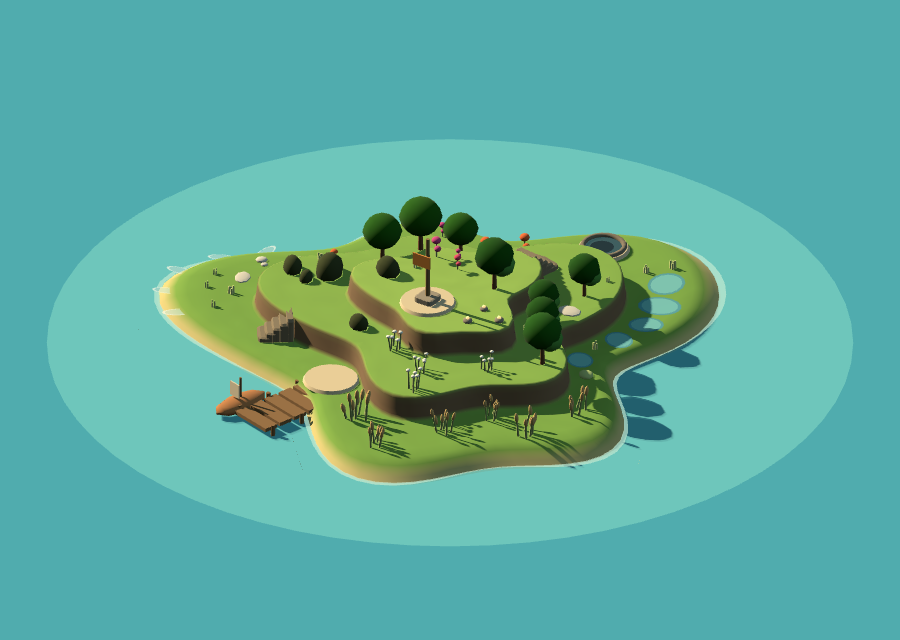
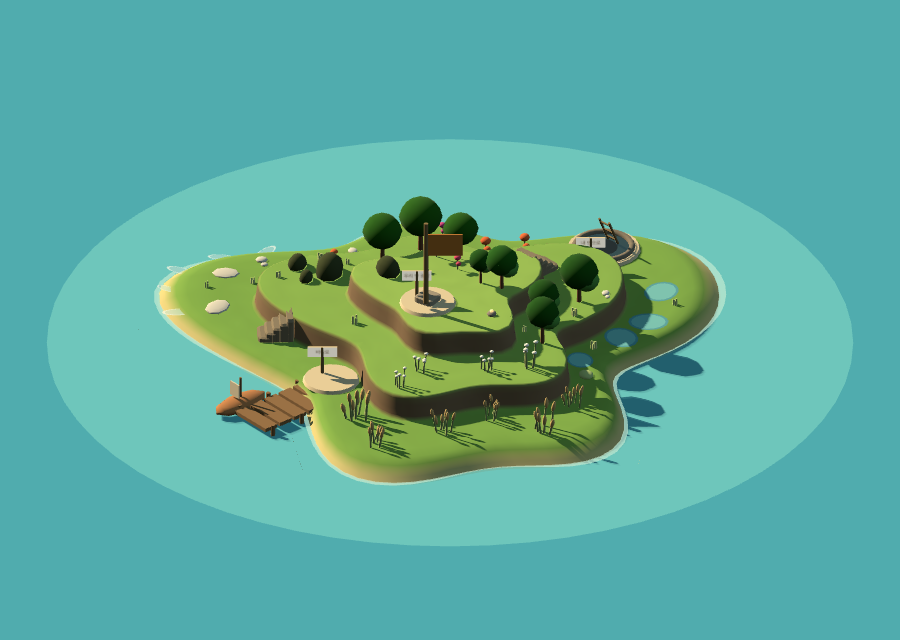
③-8 손보기: 이름 팻말, 잠수 사다리, 깃대 높이
렌더 보고 세 가지.

이름 팻말을 셋 다 같은 형태로 세웠다

"팻말이 있는 곳 = 갈 수 있는 곳"이 공통 규칙이 된다. 문구는 이름이 아니라
어디로 가는지다 — "바다로" / "내 안으로" / "우리 반 광장".
글자는 작은 캔버스 텍스처 세 장이고 문구가 세 가지라 모듈 수준에 캐시한다.
§4의 "텍스처를 쓰지 않는다"는 표면 질감 이야기이고 이름은 읽혀야 한다.

판은 아이소메트릭이 고정이라 항상 카메라 쪽을 보게 세운다. 그러면 빛을
등져 판이 어두워지고 글자가 안 읽힌다. 약한 자체 발광을 줘 해결했다.
문구가 길면 글자 크기를 줄여 판 안에 담는다. 판을 늘리면 팻말끼리
크기가 달라진다.

잠수 지점이 평온 영역 물웅덩이와 구분되지 않았다

둘 다 둥근 물이라 위에서 보면 같았다. 사다리를 세워 세로 요소를 주고
(물 안에 발을 담근다), 웅덩이를 0.47 → 0.64로 키우고 물을 더 짙게 했다.

광장 표지가 나무들 사이에 파묻혔다

깃대를 1.45 → 2.05로 올리고 깃발을 0.46×0.30 → 0.82×0.54로 키웠다.
팻말과 깃대는 별개다 — 팻말은 가까이서 읽고 깃발은 멀리서 보라고 있다.
섬 실루엣은 깨지 않는다.

버그 하나

랜드마크 빌더 콜백 안에서 th가 buildIsland의 var th(메시 루프 변수)를
집고 있었다. 그래서 깃발이 옆면만 보였다. 각도를 인자로 넘긴다.
팻말은 addLandmark 안에서 세워 이 문제가 없었다.

시드 6개 자동 검사 전부 통과.

Claude-Session: https://claude.ai/code/session_01SZRMdQ646wNhwreMZVVGCv

diff --git a/index.html b/index.html
@@ -5329,8 +5329,8 @@ function buildIsland(seedStr, opts) {
   // 그 층 식생이 통째로 사라진다.
   // 디딤판 반경이 0.64이므로 1.2면 판 둘레가 확실히 비고, 그 이상은
   // 식생이 놓일 자리만 잡아먹는다.
-  var LM_CLEAR = { dock: 1.2, dive: 1.2, plaza: 1.05 };
-  function addLandmark(id, name, hint, th, r, build) {
+  var LM_CLEAR = { dock: 1.3, dive: 1.5, plaza: 1.2 };
+  function addLandmark(id, name, sign, hint, th, r, build) {
     var x = Math.cos(th) * r, z = Math.sin(th) * r, y = profileAt(r, th).y;
     var lg = new THREE.Group();
     lg.position.set(x, y, z);
@@ -5342,12 +5342,17 @@ function buildIsland(seedStr, opts) {
       color: 0xd8c6a2, roughness: 1, metalness: 0,
       emissive: new THREE.Color(0xffd9a0), emissiveIntensity: 0
     });
-    var pr = id === "dive" ? 0.56 : 0.60;
+    var pr = id === "dive" ? 0.80 : 0.60;
     var plinth = new THREE.Mesh(new THREE.CylinderGeometry(pr, pr + 0.04, 0.07, 20), pmat);
     plinth.position.y = 0.035;
     plinth.castShadow = true; plinth.receiveShadow = true;
     lg.add(plinth);
-    build(lg);
+    build(lg, th);   // 각도를 넘긴다. 안 넘기면 buildIsland의 var th를 집는다
+    // 이름 팻말은 셋 다 같은 형태다. 잠수 지점은 웅덩이가 커서 판 밖에 세운다.
+    var sg = new THREE.Group();
+    sg.position.set(id === "dive" ? -0.72 : 0, 0, id === "dive" ? 0.30 : 0.30);
+    lg.add(sg);
+    addNameSign(sg, sign, th, 1);
     grp.add(lg);
     landmarks.push({ id: id, name: name, hint: hint, x: x, y: y, z: z, th: th, near: 1.3, mat: pmat });
     keepOuts.push({ x: x, z: z, r: LM_CLEAR[id] || 1.3, why: name });
@@ -5355,16 +5360,16 @@ function buildIsland(seedStr, opts) {
 
   // 부두 — 진입부에 디딤판만 놓는다. 부두 자체는 ③-1 그대로다.
   var dockIn = rC - 0.9 * ISLE_K;
-  addLandmark("dock", "부두", "바다로 나가요", dockTh, dockIn, function () {});
+  addLandmark("dock", "부두", "바다로", "바다로 나가요", dockTh, dockIn, function () {});
 
   // 잠수 지점 — "내려가는 물"로 읽혀야 한다. 우물이 아니다.
   // 돌로 두른 웅덩이 + 물에 잠긴 계단 두 단.
   var diveBand = bandAt(diveTh, 0);
   var diveR = diveBand ? Math.max(diveBand.lo + 0.7, diveBand.hi - 0.75) : coast(diveTh) * 0.72;
-  addLandmark("dive", "잠수 지점", "내 안으로 내려가요", diveTh, diveR, function (lg) {
+  addLandmark("dive", "잠수 지점", "내 안으로", "내 안으로 내려가요", diveTh, diveR, function (lg, lth) {
     // 테두리 돌은 디딤판보다 어둡게. 같은 톤이면 물이 안 보인다.
     var stoneM = new THREE.MeshStandardMaterial({ color: 0x7d7364, roughness: 1, metalness: 0 });
-    var rim = new THREE.Mesh(new THREE.TorusGeometry(0.47, 0.065, 6, 22), stoneM);
+    var rim = new THREE.Mesh(new THREE.TorusGeometry(0.64, 0.075, 6, 24), stoneM);
     rim.rotation.x = -Math.PI / 2; rim.position.y = 0.09;
     rim.castShadow = true; rim.receiveShadow = true;
     lg.add(rim);
@@ -5373,40 +5378,63 @@ function buildIsland(seedStr, opts) {
       var sl = new THREE.Mesh(roundedSlab(), new THREE.MeshStandardMaterial({
         color: d === 0 ? 0x7f7768 : 0x5d5850, roughness: 1, metalness: 0
       }));
-      sl.scale.set(0.34, 0.07, 0.46);
-      sl.position.set(0.10 + d * 0.13, 0.02 - d * 0.07, 0);
+      sl.scale.set(0.34, 0.07, 0.50);
+      sl.position.set(0.16 + d * 0.15, 0.02 - d * 0.07, 0);
       lg.add(sl);
     }
     // 물. 섬 둘레 바다보다 짙게 — 여기는 깊다.
-    // 물은 섬 둘레 바다보다 훨씬 짙다. 여기는 깊다는 뜻이다.
-    var wat = new THREE.Mesh(new THREE.CircleGeometry(0.47, 22).rotateX(-Math.PI / 2),
-      new THREE.MeshStandardMaterial({ color: 0x14495c, roughness: 0.55, metalness: 0,
-        transparent: true, opacity: 0.9 }));
+    // 물은 섬 둘레 바다보다 훨씬 짙고, 평온 영역 물웅덩이보다 확실히 크다.
+    // 위에서 봤을 때 둘이 같은 둥근 물로 보이면 안 된다.
+    var wat = new THREE.Mesh(new THREE.CircleGeometry(0.64, 24).rotateX(-Math.PI / 2),
+      new THREE.MeshStandardMaterial({ color: 0x0f3a4c, roughness: 0.55, metalness: 0,
+        transparent: true, opacity: 0.93 }));
     wat.position.y = 0.086;
     lg.add(wat);
-    var deep = new THREE.Mesh(new THREE.CircleGeometry(0.27, 18).rotateX(-Math.PI / 2),
-      new THREE.MeshStandardMaterial({ color: 0x092b3a, roughness: 0.55, metalness: 0 }));
-    deep.position.set(-0.05, 0.090, 0);
+    var deep = new THREE.Mesh(new THREE.CircleGeometry(0.36, 20).rotateX(-Math.PI / 2),
+      new THREE.MeshStandardMaterial({ color: 0x061f2c, roughness: 0.55, metalness: 0 }));
+    deep.position.set(-0.06, 0.090, 0);
     lg.add(deep);
+    // 사다리 — 위에서 봐도 원판이 아니고, "내려간다"를 형태가 말한다.
+    var ladM = new THREE.MeshStandardMaterial({ color: 0x8a7048, roughness: 1, metalness: 0 });
+    var lad = new THREE.Group();
+    lad.position.set(0.34, 0.02, 0);           // 물 안에 발을 담근다
+    lad.rotation.z = 0.42;                     // 웅덩이 쪽으로 눕는다
+    for (var sd = -1; sd <= 1; sd += 2) {
+      var rail = new THREE.Mesh(new THREE.CylinderGeometry(0.028, 0.028, 0.78, 6), ladM);
+      rail.position.set(0, 0.39, sd * 0.15);
+      rail.castShadow = true;
+      lad.add(rail);
+    }
+    for (var rg = 0; rg < 3; rg++) {
+      var rung = new THREE.Mesh(new THREE.CylinderGeometry(0.022, 0.022, 0.30, 5), ladM);
+      rung.rotation.x = Math.PI / 2;
+      rung.position.set(0, 0.20 + rg * 0.24, 0);
+      rung.castShadow = true;
+      lad.add(rung);
+    }
+    lg.add(lad);
   });
 
   // 광장 표지 — 3층. 섬에서 가장 높다. 계단을 올라올 이유가 된다.
   var plazaBand = bandAt(plazaTh, 2);
   var plazaR = plazaBand ? (plazaBand.lo + plazaBand.hi) * 0.5 : 0.5;
-  addLandmark("plaza", "광장 표지", "우리 반 광장으로 가요", plazaTh, plazaR, function (lg) {
+  addLandmark("plaza", "광장 표지", "우리 반 광장", "우리 반 광장으로 가요", plazaTh, plazaR, function (lg, lth) {
     var stoneM2 = new THREE.MeshStandardMaterial({ color: 0x9a8f7d, roughness: 1, metalness: 0 });
     var base = new THREE.Mesh(roundedSlab(), stoneM2);
     base.scale.set(0.46, 0.16, 0.46); base.position.y = 0.12;
     base.castShadow = true; base.receiveShadow = true;
     lg.add(base);
-    // 기둥 높이 1.45. 나무 꼭대기(3층에서 약 1.3)보다 깃발이 살짝 위에 온다.
-    var pole = new THREE.Mesh(new THREE.CylinderGeometry(0.045, 0.055, 1.45, 8),
+    // 깃대는 팻말과 별개다. 팻말은 가까이서 읽고, 깃발은 멀리서 보라고 있다.
+    // 1.45로는 나무들 사이에 파묻혔다. 2.05로 올려 나무 꼭대기 위로 확실히 뺀다.
+    var pole = new THREE.Mesh(new THREE.CylinderGeometry(0.05, 0.062, 2.05, 8),
       new THREE.MeshStandardMaterial({ color: 0x8a7048, roughness: 1, metalness: 0 }));
-    pole.position.y = 0.20 + 1.45 / 2; pole.castShadow = true;
+    pole.position.set(0.30, 0.20 + 2.05 / 2, -0.16); pole.castShadow = true;
     lg.add(pole);
-    var flag = new THREE.Mesh(new THREE.BoxGeometry(0.46, 0.30, 0.035),
+    var flag = new THREE.Mesh(new THREE.BoxGeometry(0.82, 0.54, 0.04),
       new THREE.MeshStandardMaterial({ color: 0xd6883c, roughness: 1, metalness: 0 }));
-    flag.position.set(0.24, 1.20, 0); flag.rotation.y = Math.PI / 2;
+    flag.rotation.y = Math.PI / 4 + lth;    // 팻말과 같은 방향. 화면을 본다
+    flag.position.set(0.30, 1.70, -0.16);
+    flag.translateX(0.41);                  // 기둥에 붙여 편다
     flag.castShadow = true;
     lg.add(flag);
   });
@@ -5839,6 +5867,65 @@ function buildVegMeshes(items) {
     grp.add(im);
   });
   return grp;
+}
+// 팻말 글자. 텍스처를 거의 안 쓰는 프로젝트지만(DESIGN.md §4) 이름은 읽혀야 한다.
+// 256×64 세 장뿐이고 문구가 세 가지라 모듈 수준에 캐시해 섬마다 다시 만들지 않는다.
+// IslandView의 정리는 재질만 dispose하고 텍스처는 건드리지 않으므로 안전하다.
+var LABEL_TEX = {};
+function labelTexture(text) {
+  if (LABEL_TEX[text]) return LABEL_TEX[text];
+  // 자동 검사는 브라우저 없이 돌아간다. 캔버스가 없으면 글자 없는 판으로 둔다.
+  if (typeof document === "undefined") return null;
+  var c = document.createElement("canvas");
+  c.width = 256; c.height = 96;
+  var g = c.getContext("2d");
+  g.fillStyle = "#f2e3c2"; g.fillRect(0, 0, 256, 96);
+  g.fillStyle = "#4a3a24";
+  g.textAlign = "center"; g.textBaseline = "middle";
+  // 문구가 길면 글자를 줄여 판 안에 담는다. 판을 늘리면 팻말끼리 크기가 달라진다.
+  var px = 46;
+  do {
+    g.font = "bold " + px + "px 'Jua', 'Apple SD Gothic Neo', sans-serif";
+    if (g.measureText(text).width <= 226) break;
+    px -= 2;
+  } while (px > 22);
+  g.fillText(text, 128, 52);
+  var t = new THREE.Texture(c);
+  t.needsUpdate = true;
+  if (THREE.SRGBColorSpace) t.colorSpace = THREE.SRGBColorSpace; else t.encoding = THREE.sRGBEncoding;
+  LABEL_TEX[text] = t;
+  return t;
+}
+// 이름 팻말. 셋 다 같은 형태다 — 팻말이 있는 곳이 갈 수 있는 곳이라는
+// 규칙 하나로 아이가 셋을 다 알아본다. 다가가지 않아도 멀리서 보인다.
+// 판은 항상 카메라 쪽을 본다. 아이소메트릭이 고정이라 각도가 상수다.
+function addNameSign(lg, text, th, scale) {
+  var k = scale || 1;
+  var post = new THREE.Mesh(new THREE.CylinderGeometry(0.035 * k, 0.042 * k, 0.66 * k, 7),
+    new THREE.MeshStandardMaterial({ color: 0x8a7048, roughness: 1, metalness: 0 }));
+  post.position.y = 0.07 + 0.66 * k / 2;
+  post.castShadow = true;
+  lg.add(post);
+  var board = new THREE.Mesh(new THREE.BoxGeometry(0.66 * k, 0.25 * k, 0.045 * k), [
+    null, null, null, null,
+    (function () {
+      var tx = labelTexture(text);
+      // 판은 카메라를 보게 세우는데, 빛은 화면 왼쪽 위에서 온다.
+      // 그대로 두면 글자면이 늘 그늘이라 읽히지 않는다.
+      // 약하게 자체 발광시켜 각도와 무관하게 읽히게 한다.
+      return new THREE.MeshStandardMaterial(tx
+        ? { map: tx, emissive: 0xffffff, emissiveMap: tx, emissiveIntensity: 0.45,
+            roughness: 1, metalness: 0 }
+        : { color: 0xe8d9b8, roughness: 1, metalness: 0 });
+    })(),
+    new THREE.MeshStandardMaterial({ color: 0xe8d9b8, roughness: 1, metalness: 0 })
+  ].map(function (m) {
+    return m || new THREE.MeshStandardMaterial({ color: 0xd8c49c, roughness: 1, metalness: 0 });
+  }));
+  board.position.y = 0.07 + 0.54 * k;
+  board.rotation.y = Math.PI / 4 + th;   // 그룹이 -th로 돌아 있으니 이걸 더하면 화면을 본다
+  board.castShadow = true;
+  lg.add(board);
 }
 // 조명. ③-2에서 정한 값이고 확인용 하네스도 이 함수를 부른다.
 // 두 군데에 적어두면 하네스로 잰 수치가 앱 화면과 달라진다(실제로 겪었다).

diff --git a/renders/README.md b/renders/README.md
@@ -37,6 +37,6 @@
 | 28_veg_v0 | **③-7** 어휘 0가지. 중립 식생(풀 포기·자갈·관목·노두)만. 27번과 견주면 첫날 화면 차이가 보인다 |
 | 29_veg_v4 | ③-7 어휘 4가지. 네 영역에 하나씩 |
 | 30_veg_v16 | ③-7 어휘 16가지. 활기=위, 평온=오른쪽, 슬픔=아래, 분노=왼쪽 |
-| 31_landmarks_full | **③-8** 전체 구도. 3층 깃발이 나무보다 살짝 높다. 부두엔 배, 오른쪽 위에 잠수 웅덩이 |
-| 32_landmark_dive | 잠수 지점 근접. 오른쪽 아래 평온의 물웅덩이(밝음)와 견주면 "여기는 깊다"가 읽힌다 |
-| 33_landmark_plaza | 광장 표지 근접. 왼쪽 아래 옅은 원판이 부두 진입부 디딤판 |
+| 31_landmarks_full | **③-8** 전체 구도. 깃발이 나무 위로 확실히 뺀다. 세 곳 모두 이름 팻말 |
+| 32_landmark_dive | 잠수 지점 근접. 사다리 + 짙은 물. 오른쪽 아래 평온의 물웅덩이(밝고 작다)와 견주면 다르다 |
+| 33_landmark_plaza | 광장 표지 근접. 팻말 셋이 같은 형태다 — "우리 반 광장" "바다로" "내 안으로" |
